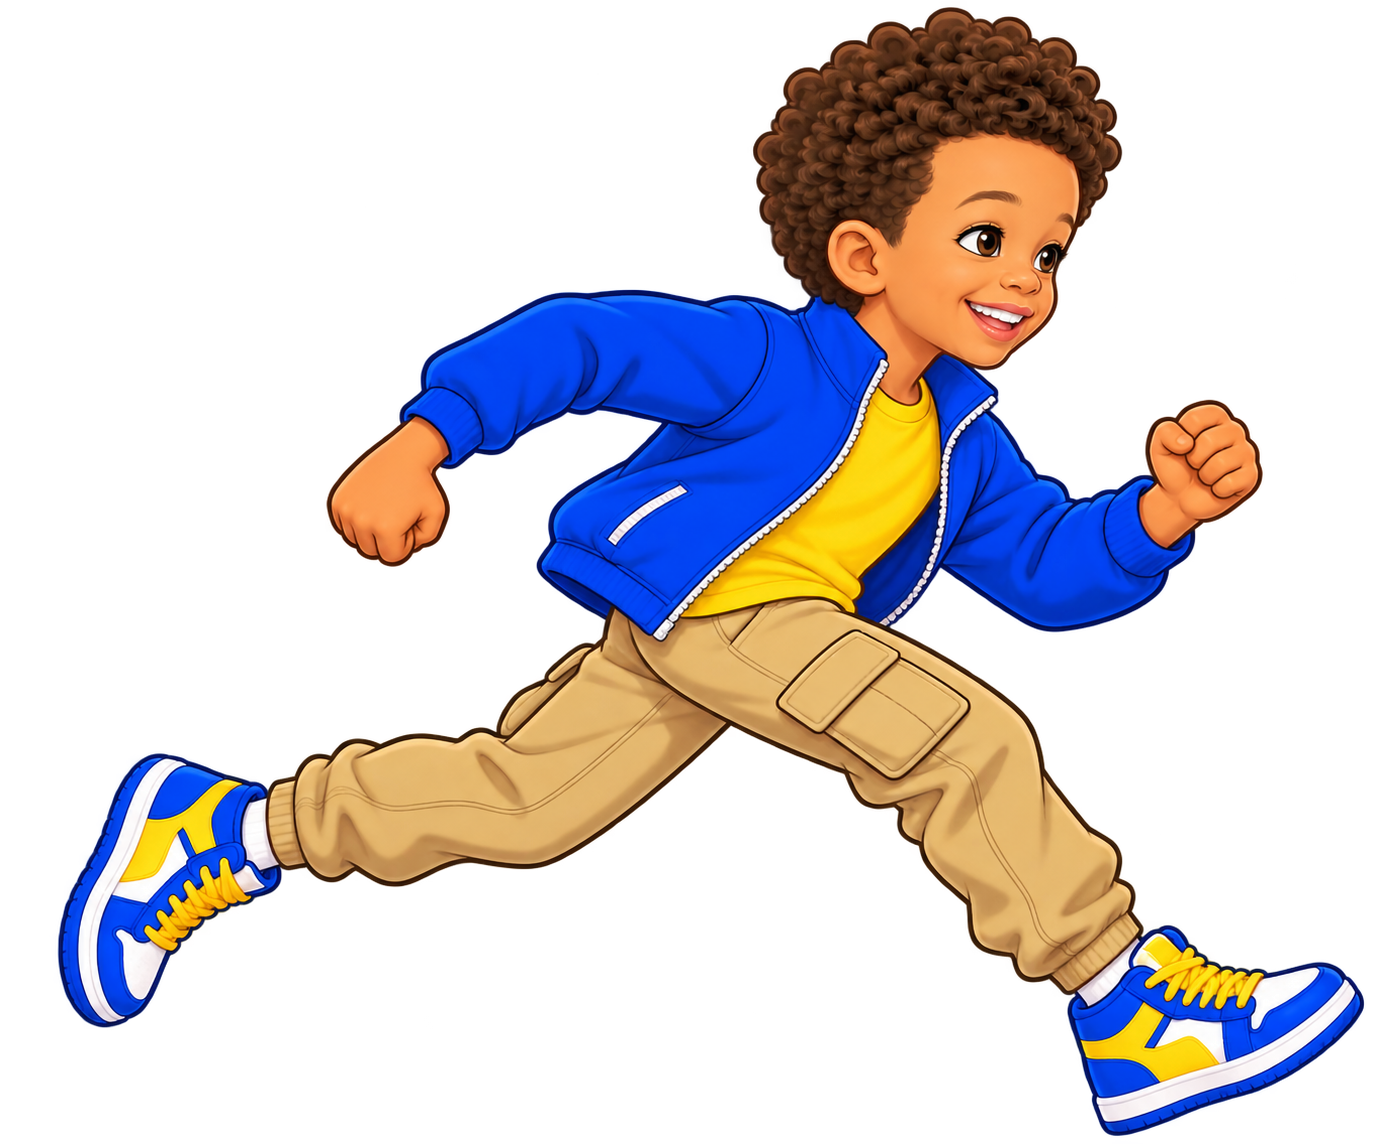
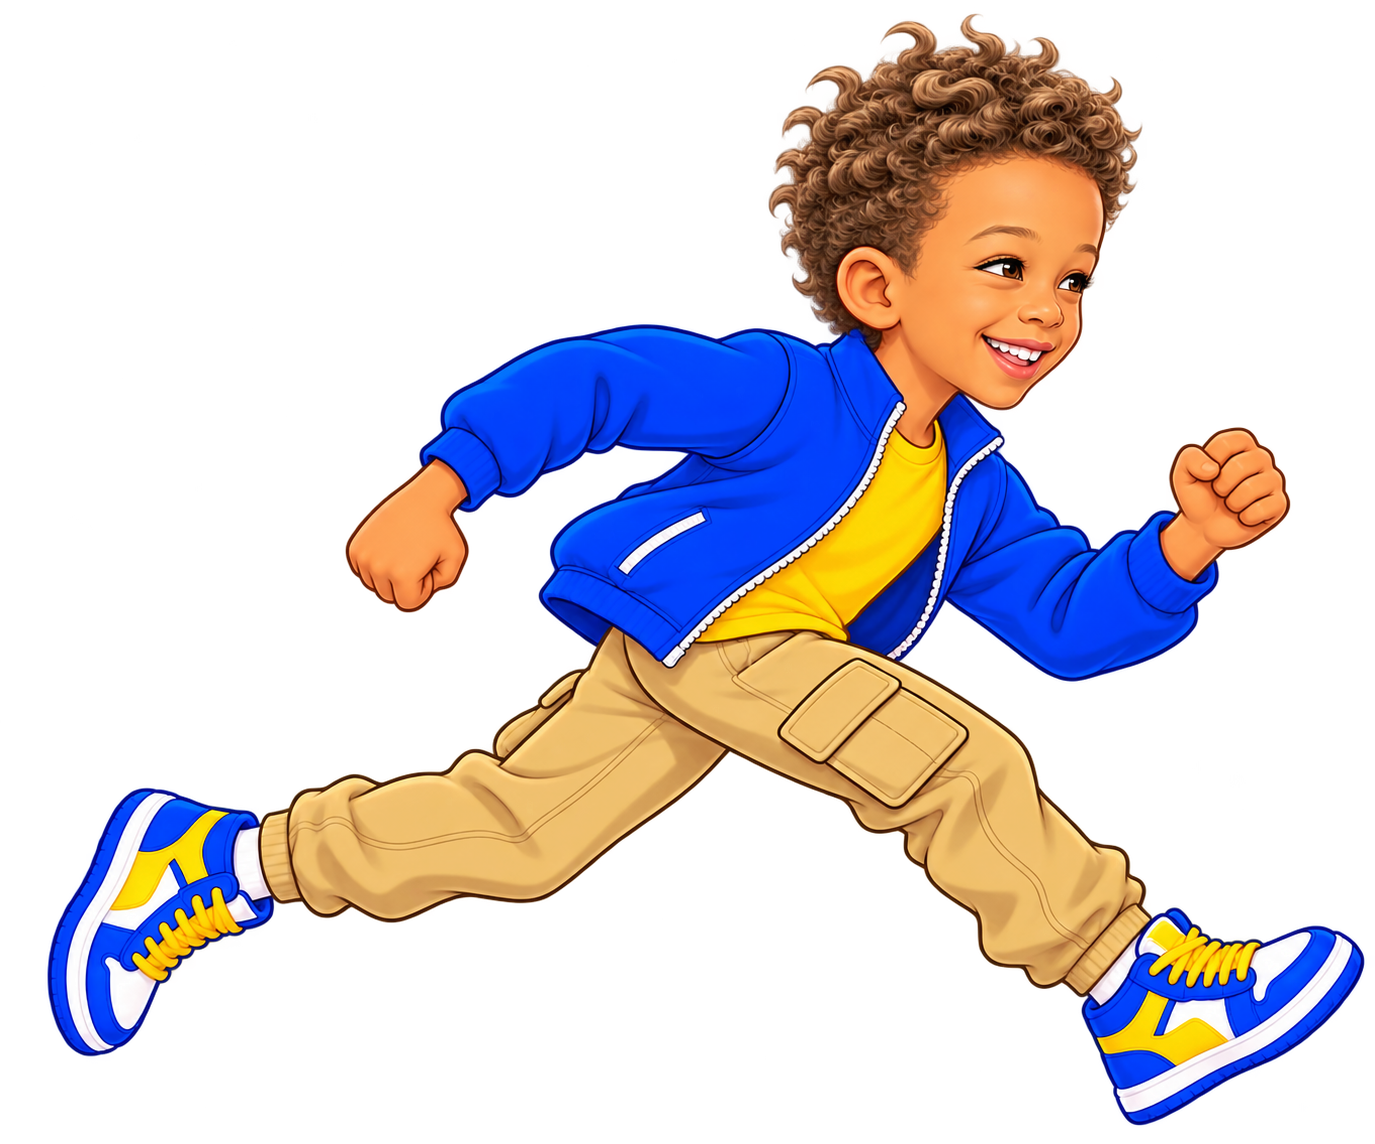
Differentiate Everest character artwork

Changed region(s): [[0.0305, 0.0, 1.0, 1.0]]

diff --git a/money-ops/src/runner.js b/money-ops/src/runner.js
@@ -5,7 +5,7 @@ export class FinancialRunner{
  constructor(canvas,config,{characterId='maya',ownedItems=[],onUpdate=()=>{},onComplete=()=>{}}={}){
   this.canvas=canvas;this.ctx=canvas.getContext('2d');this.config=config;this.characterId=characterId;this.ownedItems=new Set(ownedItems);this.onUpdate=onUpdate;this.onComplete=onComplete;this.reduced=matchMedia('(prefers-reduced-motion: reduce)').matches;
   this.width=960;this.height=360;this.ground=292;this.entities=[];this.particles=[];this.popups=[];this.keys=new Set();this.running=false;this.paused=false;this.completed=false;this.last=0;this.spawnIn=1.55;this.rewardIn=.45;this.powerIn=11;this.boxIn=5;this.speed=155*config.difficulty;this.distance=0;this.lives=config.maxLives;this.coins=0;this.collected=0;this.bonusMoney=0;this.xp=0;this.score=0;this.avoided=0;this.combo=0;this.powerUpsUsed=0;this.invulnerable=0;this.companionShield=this.ownedItems.has('companion');this.activePower=null;this.state='idle';this.stateTime=0;this.vocabularyIndex=0;this.vocabularySeen=[];this.vocabEvent=null;this.vocabSerial=0;this.player={x:112,y:this.ground-124,w:82,h:124,vy:0,grounded:true,duck:false};
-  this.startedAt=0;this.endAt=0;this.lastHud=0;this.pendingStart=null;this.imageReady=false;this.imageFailed=false;this.image=new Image();this.image.onload=()=>{this.imageReady=true;if(this.pendingStart!==null){const pending=this.pendingStart;this.pendingStart=null;this.start(pending);}};this.image.onerror=()=>{this.imageFailed=true;if(this.pendingStart!==null){const pending=this.pendingStart;this.pendingStart=null;this.start(pending);}};this.image.src=new URL(`../assets/runner/${characterId}-right.png?v=43.1`,import.meta.url).href;this.imageReady=Boolean(this.image.complete&&this.image.naturalWidth);this.boundFrame=time=>this.frame(time);this.boundKeyDown=event=>this.keyDown(event);this.boundKeyUp=event=>this.keyUp(event);this.boundBlur=()=>this.setPaused(true);this.pointerStart=null;
+  this.startedAt=0;this.endAt=0;this.lastHud=0;this.pendingStart=null;this.imageReady=false;this.imageFailed=false;this.image=new Image();this.image.onload=()=>{this.imageReady=true;if(this.pendingStart!==null){const pending=this.pendingStart;this.pendingStart=null;this.start(pending);}};this.image.onerror=()=>{this.imageFailed=true;if(this.pendingStart!==null){const pending=this.pendingStart;this.pendingStart=null;this.start(pending);}};this.image.src=new URL(`../assets/runner/${characterId}-right.png?v=43.2`,import.meta.url).href;this.imageReady=Boolean(this.image.complete&&this.image.naturalWidth);this.boundFrame=time=>this.frame(time);this.boundKeyDown=event=>this.keyDown(event);this.boundKeyUp=event=>this.keyUp(event);this.boundBlur=()=>this.setPaused(true);this.pointerStart=null;
   const ratio=Math.min(2,window.devicePixelRatio||1);canvas.width=this.width*ratio;canvas.height=this.height*ratio;this.ctx.setTransform(ratio,0,0,ratio,0,0);canvas.style.aspectRatio=`${this.width}/${this.height}`;
   canvas.addEventListener('pointerdown',event=>{this.pointerStart={x:event.clientX,y:event.clientY,time:Date.now()};});
   canvas.addEventListener('pointerup',event=>{const start=this.pointerStart;if(!start)return;const dy=event.clientY-start.y;if(dy>38)this.duck(.65);else this.jump();this.pointerStart=null;});

diff --git a/src/runner.js b/src/runner.js
@@ -5,7 +5,7 @@ export class FinancialRunner{
  constructor(canvas,config,{characterId='maya',ownedItems=[],onUpdate=()=>{},onComplete=()=>{}}={}){
   this.canvas=canvas;this.ctx=canvas.getContext('2d');this.config=config;this.characterId=characterId;this.ownedItems=new Set(ownedItems);this.onUpdate=onUpdate;this.onComplete=onComplete;this.reduced=matchMedia('(prefers-reduced-motion: reduce)').matches;
   this.width=960;this.height=360;this.ground=292;this.entities=[];this.particles=[];this.popups=[];this.keys=new Set();this.running=false;this.paused=false;this.completed=false;this.last=0;this.spawnIn=1.55;this.rewardIn=.45;this.powerIn=11;this.boxIn=5;this.speed=155*config.difficulty;this.distance=0;this.lives=config.maxLives;this.coins=0;this.collected=0;this.bonusMoney=0;this.xp=0;this.score=0;this.avoided=0;this.combo=0;this.powerUpsUsed=0;this.invulnerable=0;this.companionShield=this.ownedItems.has('companion');this.activePower=null;this.state='idle';this.stateTime=0;this.vocabularyIndex=0;this.vocabularySeen=[];this.vocabEvent=null;this.vocabSerial=0;this.player={x:112,y:this.ground-124,w:82,h:124,vy:0,grounded:true,duck:false};
-  this.startedAt=0;this.endAt=0;this.lastHud=0;this.pendingStart=null;this.imageReady=false;this.imageFailed=false;this.image=new Image();this.image.onload=()=>{this.imageReady=true;if(this.pendingStart!==null){const pending=this.pendingStart;this.pendingStart=null;this.start(pending);}};this.image.onerror=()=>{this.imageFailed=true;if(this.pendingStart!==null){const pending=this.pendingStart;this.pendingStart=null;this.start(pending);}};this.image.src=new URL(`../assets/runner/${characterId}-right.png?v=43.1`,import.meta.url).href;this.imageReady=Boolean(this.image.complete&&this.image.naturalWidth);this.boundFrame=time=>this.frame(time);this.boundKeyDown=event=>this.keyDown(event);this.boundKeyUp=event=>this.keyUp(event);this.boundBlur=()=>this.setPaused(true);this.pointerStart=null;
+  this.startedAt=0;this.endAt=0;this.lastHud=0;this.pendingStart=null;this.imageReady=false;this.imageFailed=false;this.image=new Image();this.image.onload=()=>{this.imageReady=true;if(this.pendingStart!==null){const pending=this.pendingStart;this.pendingStart=null;this.start(pending);}};this.image.onerror=()=>{this.imageFailed=true;if(this.pendingStart!==null){const pending=this.pendingStart;this.pendingStart=null;this.start(pending);}};this.image.src=new URL(`../assets/runner/${characterId}-right.png?v=43.2`,import.meta.url).href;this.imageReady=Boolean(this.image.complete&&this.image.naturalWidth);this.boundFrame=time=>this.frame(time);this.boundKeyDown=event=>this.keyDown(event);this.boundKeyUp=event=>this.keyUp(event);this.boundBlur=()=>this.setPaused(true);this.pointerStart=null;
   const ratio=Math.min(2,window.devicePixelRatio||1);canvas.width=this.width*ratio;canvas.height=this.height*ratio;this.ctx.setTransform(ratio,0,0,ratio,0,0);canvas.style.aspectRatio=`${this.width}/${this.height}`;
   canvas.addEventListener('pointerdown',event=>{this.pointerStart={x:event.clientX,y:event.clientY,time:Date.now()};});
   canvas.addEventListener('pointerup',event=>{const start=this.pointerStart;if(!start)return;const dy=event.clientY-start.y;if(dy>38)this.duck(.65);else this.jump();this.pointerStart=null;});

diff --git a/money-ops/src/app.js b/money-ops/src/app.js
@@ -15,7 +15,7 @@ const money=n=>new Intl.NumberFormat('en-US',{style:'currency',currency:'USD',ma
 const escape=s=>String(s).replace(/[&<>"']/g,c=>({'&':'&amp;','<':'&lt;','>':'&gt;','"':'&quot;',"'":'&#39;'}[c]));
 const button=(text,action,cls='',extra='')=>`<button class="${cls}" data-action="${action}" ${extra}>${text}</button>`;
 function progress(){const next=nextRank(p.xp);const current=ranks.filter(r=>p.xp>=r[1]).at(-1);const pct=next?Math.min(100,(p.xp-current[1])/(next[1]-current[1])*100):100;return `<div class="xp-row"><span>${p.xp} XP</span><span>${next?`${next[1]-p.xp} TO ${next[0].toUpperCase()}`:'TOP RANK'}</span></div><div class="bar" role="progressbar" aria-label="Rank progress" aria-valuenow="${Math.round(pct)}" aria-valuemin="0" aria-valuemax="100"><i style="width:${pct}%"></i></div>`;}
-function header(){const arcade=p.mode==='arcade';return `<header><a class="brand" href="./" aria-label="Money Ops home"><span class="brand-mark">M<span>↗</span></span><span><small>FINANCIAL FREEDOM</small><b>MONEY OPS<span class="version"> / 43.1</span></b></span></a><div class="header-right"><span class="system ${arcade?'arcade-unsaved':''}"><i></i> ${arcade?'ARCADE MODE · NOT SAVED':'CAREER SAVED'}</span>${button(p.muted?'SOUND OFF':'SOUND ON','mute','utility',`aria-pressed="${!p.muted}" aria-label="${p.muted?'Enable':'Mute'} sound"`)}</div></header>`;}
+function header(){const arcade=p.mode==='arcade';return `<header><a class="brand" href="./" aria-label="Money Ops home"><span class="brand-mark">M<span>↗</span></span><span><small>FINANCIAL FREEDOM</small><b>MONEY OPS<span class="version"> / 43.2</span></b></span></a><div class="header-right"><span class="system ${arcade?'arcade-unsaved':''}"><i></i> ${arcade?'ARCADE MODE · NOT SAVED':'CAREER SAVED'}</span>${button(p.muted?'SOUND OFF':'SOUND ON','mute','utility',`aria-pressed="${!p.muted}" aria-label="${p.muted?'Enable':'Mute'} sound"`)}</div></header>`;}
 function playerPortrait(className='',id=p.avatar){return characters[id]?portrait(id,className):`<span class="avatar">${escape(id)}</span>`;}
 function runnerCharacterId(session=p?.runnerSession){if(p?.mode==='arcade')return p.avatar;const lesson=Math.max(1,Number(session?.lessonId)||1),offset=session?.phase==='post'?1:0;return castIds[(lesson-1+offset)%castIds.length];}
 const bonusItems=[{id:'boots',name:'BOOST BOOTS',price:5,icon:'⇧',detail:'Jump higher.'},{id:'magnet',name:'COIN MAGNET',price:10,icon:'◎',detail:'Pull coins closer.'},{id:'companion',name:'PENNY THE MONEY DRAGON',price:15,icon:'🐲',detail:'Your original Money Ops sidekick blocks one hit.'}];

diff --git a/src/app.js b/src/app.js
@@ -15,7 +15,7 @@ const money=n=>new Intl.NumberFormat('en-US',{style:'currency',currency:'USD',ma
 const escape=s=>String(s).replace(/[&<>"']/g,c=>({'&':'&amp;','<':'&lt;','>':'&gt;','"':'&quot;',"'":'&#39;'}[c]));
 const button=(text,action,cls='',extra='')=>`<button class="${cls}" data-action="${action}" ${extra}>${text}</button>`;
 function progress(){const next=nextRank(p.xp);const current=ranks.filter(r=>p.xp>=r[1]).at(-1);const pct=next?Math.min(100,(p.xp-current[1])/(next[1]-current[1])*100):100;return `<div class="xp-row"><span>${p.xp} XP</span><span>${next?`${next[1]-p.xp} TO ${next[0].toUpperCase()}`:'TOP RANK'}</span></div><div class="bar" role="progressbar" aria-label="Rank progress" aria-valuenow="${Math.round(pct)}" aria-valuemin="0" aria-valuemax="100"><i style="width:${pct}%"></i></div>`;}
-function header(){const arcade=p.mode==='arcade';return `<header><a class="brand" href="./" aria-label="Money Ops home"><span class="brand-mark">M<span>↗</span></span><span><small>FINANCIAL FREEDOM</small><b>MONEY OPS<span class="version"> / 43.1</span></b></span></a><div class="header-right"><span class="system ${arcade?'arcade-unsaved':''}"><i></i> ${arcade?'ARCADE MODE · NOT SAVED':'CAREER SAVED'}</span>${button(p.muted?'SOUND OFF':'SOUND ON','mute','utility',`aria-pressed="${!p.muted}" aria-label="${p.muted?'Enable':'Mute'} sound"`)}</div></header>`;}
+function header(){const arcade=p.mode==='arcade';return `<header><a class="brand" href="./" aria-label="Money Ops home"><span class="brand-mark">M<span>↗</span></span><span><small>FINANCIAL FREEDOM</small><b>MONEY OPS<span class="version"> / 43.2</span></b></span></a><div class="header-right"><span class="system ${arcade?'arcade-unsaved':''}"><i></i> ${arcade?'ARCADE MODE · NOT SAVED':'CAREER SAVED'}</span>${button(p.muted?'SOUND OFF':'SOUND ON','mute','utility',`aria-pressed="${!p.muted}" aria-label="${p.muted?'Enable':'Mute'} sound"`)}</div></header>`;}
 function playerPortrait(className='',id=p.avatar){return characters[id]?portrait(id,className):`<span class="avatar">${escape(id)}</span>`;}
 function runnerCharacterId(session=p?.runnerSession){if(p?.mode==='arcade')return p.avatar;const lesson=Math.max(1,Number(session?.lessonId)||1),offset=session?.phase==='post'?1:0;return castIds[(lesson-1+offset)%castIds.length];}
 const bonusItems=[{id:'boots',name:'BOOST BOOTS',price:5,icon:'⇧',detail:'Jump higher.'},{id:'magnet',name:'COIN MAGNET',price:10,icon:'◎',detail:'Pull coins closer.'},{id:'companion',name:'PENNY THE MONEY DRAGON',price:15,icon:'🐲',detail:'Your original Money Ops sidekick blocks one hit.'}];

diff --git a/index.html b/index.html
@@ -1,2 +1,2 @@
 <!doctype html>
-<html lang="en"><head><meta charset="utf-8"><meta name="viewport" content="width=device-width,initial-scale=1"><meta name="theme-color" content="#101816"><link rel="icon" type="image/svg+xml" href="favicon.svg"><title>Financial Freedom: Money Ops — The Financial Runner</title><link rel="stylesheet" href="style.css?v=43.1"></head><body><a class="skip" href="#main">Skip to game</a><div id="app"></div><div id="announcer" class="sr" role="status" aria-live="polite"></div><script type="module" src="src/app.js?v=43.1"></script></body></html>
+<html lang="en"><head><meta charset="utf-8"><meta name="viewport" content="width=device-width,initial-scale=1"><meta name="theme-color" content="#101816"><link rel="icon" type="image/svg+xml" href="favicon.svg"><title>Financial Freedom: Money Ops — The Financial Runner</title><link rel="stylesheet" href="style.css?v=43.2"></head><body><a class="skip" href="#main">Skip to game</a><div id="app"></div><div id="announcer" class="sr" role="status" aria-live="polite"></div><script type="module" src="src/app.js?v=43.2"></script></body></html>

diff --git a/money-ops/index.html b/money-ops/index.html
@@ -1,2 +1,2 @@
 <!doctype html>
-<html lang="en"><head><meta charset="utf-8"><meta name="viewport" content="width=device-width,initial-scale=1"><meta name="theme-color" content="#101816"><link rel="icon" type="image/svg+xml" href="favicon.svg"><title>Financial Freedom: Money Ops — The Financial Runner</title><link rel="stylesheet" href="style.css?v=43.1"></head><body><a class="skip" href="#main">Skip to game</a><div id="app"></div><div id="announcer" class="sr" role="status" aria-live="polite"></div><script type="module" src="src/app.js?v=43.1"></script></body></html>
+<html lang="en"><head><meta charset="utf-8"><meta name="viewport" content="width=device-width,initial-scale=1"><meta name="theme-color" content="#101816"><link rel="icon" type="image/svg+xml" href="favicon.svg"><title>Financial Freedom: Money Ops — The Financial Runner</title><link rel="stylesheet" href="style.css?v=43.2"></head><body><a class="skip" href="#main">Skip to game</a><div id="app"></div><div id="announcer" class="sr" role="status" aria-live="polite"></div><script type="module" src="src/app.js?v=43.2"></script></body></html>

diff --git a/money-ops/tests/runner-engine.test.js b/money-ops/tests/runner-engine.test.js
@@ -53,7 +53,7 @@ test('the run ends when the player collects the 100th reward',()=>{
 
 test('the selected character art is loaded and the kid-friendly pace accelerates gently',()=>{
  const game=harness(1,'pre').runner;
- assert.match(game.image._src,/assets\/runner\/maya-right\.png\?v=43\.1$/);
+ assert.match(game.image._src,/assets\/runner\/maya-right\.png\?v=43\.2$/);
  assert.equal(game.player.w,82);
  assert.equal(game.player.h,124);
  assert.equal(game.speed,155);
@@ -75,7 +75,7 @@ test('Money Boxes add bonus dollars and owned items change play',()=>{
  assert.equal(game.runner.companionShield,true);
  game.runner.invulnerable=0;game.runner.hitObstacle({x:200,y:240,w:50,h:50,done:false});
  assert.equal(game.runner.lives,3,'the original companion blocks one collision');
- assert.match(game.runner.image._src,/assets\/runner\/ruby-right\.png\?v=43\.1$/);
+ assert.match(game.runner.image._src,/assets\/runner\/ruby-right\.png\?v=43\.2$/);
 });
 
 test('runner events publish lesson vocabulary for the side stream',()=>{

diff --git a/tests/runner-engine.test.js b/tests/runner-engine.test.js
@@ -53,7 +53,7 @@ test('the run ends when the player collects the 100th reward',()=>{
 
 test('the selected character art is loaded and the kid-friendly pace accelerates gently',()=>{
  const game=harness(1,'pre').runner;
- assert.match(game.image._src,/assets\/runner\/maya-right\.png\?v=43\.1$/);
+ assert.match(game.image._src,/assets\/runner\/maya-right\.png\?v=43\.2$/);
  assert.equal(game.player.w,82);
  assert.equal(game.player.h,124);
  assert.equal(game.speed,155);
@@ -75,7 +75,7 @@ test('Money Boxes add bonus dollars and owned items change play',()=>{
  assert.equal(game.runner.companionShield,true);
  game.runner.invulnerable=0;game.runner.hitObstacle({x:200,y:240,w:50,h:50,done:false});
  assert.equal(game.runner.lives,3,'the original companion blocks one collision');
- assert.match(game.runner.image._src,/assets\/runner\/ruby-right\.png\?v=43\.1$/);
+ assert.match(game.runner.image._src,/assets\/runner\/ruby-right\.png\?v=43\.2$/);
 });
 
 test('runner events publish lesson vocabulary for the side stream',()=>{

diff --git a/money-ops/src/characters.js b/money-ops/src/characters.js
@@ -13,7 +13,7 @@ export const character=id=>characters[id]||characters.maya;
 
 export function portrait(id,className=''){
  const c=character(id);
- return `<img class="character-portrait ${className}" src="assets/cast/${c.image}?v=43.1" alt="${c.name}, ${c.role}">`;
+ return `<img class="character-portrait ${className}" src="assets/cast/${c.image}?v=43.2" alt="${c.name}, ${c.role}">`;
 }
 
 export function castPortraits(className='',ids=castIds){

diff --git a/src/characters.js b/src/characters.js
@@ -13,7 +13,7 @@ export const character=id=>characters[id]||characters.maya;
 
 export function portrait(id,className=''){
  const c=character(id);
- return `<img class="character-portrait ${className}" src="assets/cast/${c.image}?v=43.1" alt="${c.name}, ${c.role}">`;
+ return `<img class="character-portrait ${className}" src="assets/cast/${c.image}?v=43.2" alt="${c.name}, ${c.role}">`;
 }
 
 export function castPortraits(className='',ids=castIds){
